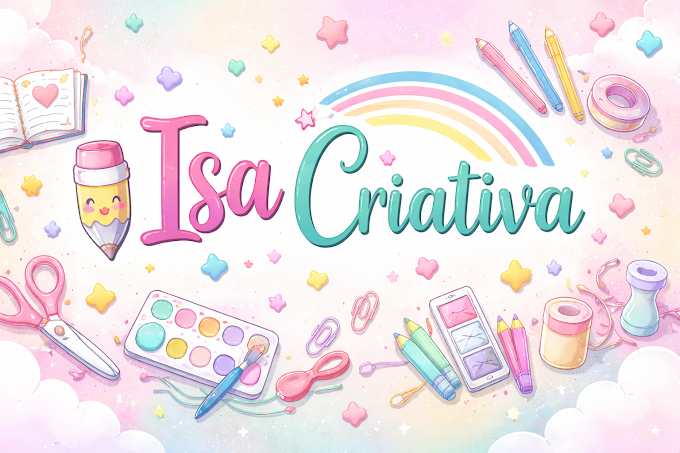
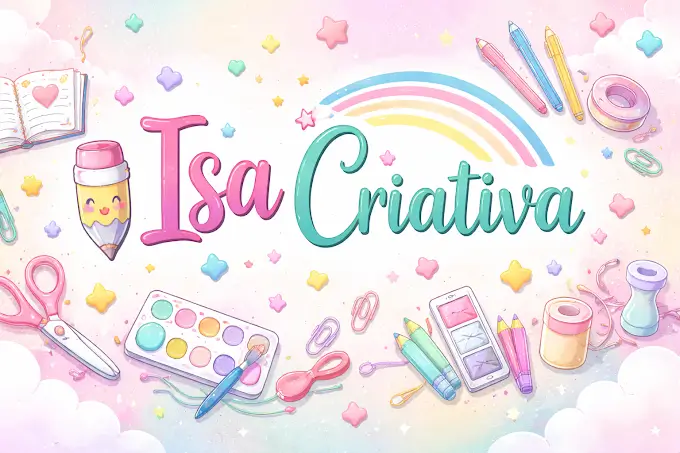
feat(performance): otimiza imagens do site para melhorar carregamento
- Redimensiona imagens conforme recomendações do Google
- Comprime arquivos utilizando TinyPNG
- Converte imagens para formato WebP
- Reduz tamanho total de 5.48MB para 899KB

Impacto:

- Melhoria significativa no tempo de carregamento
- Otimização para SEO e Core Web Vitals

diff --git a/index.html b/index.html
@@ -12,7 +12,7 @@
     <meta property="og:type" content="website">
     <meta property="og:title" content="Isa Criativa | Papelaria Personalizada para Festa Infantil — São Pedro da Aldeia">
     <meta property="og:description" content="Kits festa completos, topos de bolo e caixinhas personalizadas feitas com acabamento premium e muito carinho. Atendemos São Pedro da Aldeia, Região dos Lagos e enviamos para todo o Brasil!">
-    <meta property="og:image" content="https://isacriativa.com.br/img/img01.png">
+    <meta property="og:image" content="https://isacriativa.com.br/img/isa-criativa-papelaria-personalizada-sao-pedro-da-aldeia.webp">
     <meta property="og:image:width" content="1200">
     <meta property="og:image:height" content="630">
     <meta property="og:locale" content="pt_BR">
@@ -131,7 +131,7 @@
             <div class="hero-container">
                 <!-- Ilustração lado esquerdo -->
                 <div class="hero-image" aria-label="Ilustração de personagem criativa voando em foguete com itens de papelaria">
-                    <img src="img/hero-illustration.png" alt="Personagem criativa voando em foguete rodeada de itens de papelaria personalizada" class="hero-illustration" width="600" height="600">
+                    <img src="img/hero-illustration.webp" alt="Personagem criativa voando em foguete rodeada de itens de papelaria personalizada" class="hero-illustration" width="600" height="600">
                 </div>
                 <!-- Texto lado direito -->
                 <div class="hero-text">
@@ -187,70 +187,70 @@
                     <div class="swiper-wrapper">
                         <div class="swiper-slide">
                             <button class="gallery-btn" aria-label="Ampliar imagem 1">
-                                <img src="img/caixinha-personalizada-roda-gigante-tema-confeitaria.png" alt="Caixinha personalizada Roda Gigante para festa infantil com acabamento premium — Isa Criativa - Tema Confeitaria" class="gallery-img" loading="lazy">
+                                <img src="img/caixinha-personalizada-roda-gigante-tema-confeitaria.webp" alt="Caixinha personalizada Roda Gigante para festa infantil com acabamento premium — Isa Criativa - Tema Confeitaria" class="gallery-img" loading="lazy">
                             </button>
                         </div>
                         <div class="swiper-slide">
                             <button class="gallery-btn" aria-label="Ampliar imagem 2">
-                                <img src="img/caixinha-personalizada-piramide-tema-vaquinha.png" alt="Caixinha personalizada Pirâmide para festa infantil com acabamento premium — Isa Criativa - Tema Vaquinha" class="gallery-img" loading="lazy">
+                                <img src="img/caixinha-personalizada-piramide-tema-vaquinha.webp" alt="Caixinha personalizada Pirâmide para festa infantil com acabamento premium — Isa Criativa - Tema Vaquinha" class="gallery-img" loading="lazy">
                             </button>
                         </div>
                         <div class="swiper-slide">
                             <button class="gallery-btn" aria-label="Ampliar imagem 3">
-                                <img src="img/chuteira-personalizada-tema-champions-league.png" alt="Chuteira personalizada para festa infantil com acabamento premium — Isa Criativa - Tema Futebol" class="gallery-img" loading="lazy">
+                                <img src="img/chuteira-personalizada-tema-champions-league.webp" alt="Chuteira personalizada para festa infantil com acabamento premium — Isa Criativa - Tema Futebol" class="gallery-img" loading="lazy">
                             </button>
                         </div>
                         <div class="swiper-slide">
                             <button class="gallery-btn" aria-label="Ampliar imagem 4">
-                                <img src="img/caixinha-personalizada-milk-tema-confeitaria.png" alt="Caixinha personalizada Milk para festa infantil com acabamento premium — Isa Criativa - Tema Confeitaria" class="gallery-img" loading="lazy">
+                                <img src="img/caixinha-personalizada-milk-tema-confeitaria.webp" alt="Caixinha personalizada Milk para festa infantil com acabamento premium — Isa Criativa - Tema Confeitaria" class="gallery-img" loading="lazy">
                             </button>
                         </div>
                         <div class="swiper-slide">
                             <button class="gallery-btn" aria-label="Ampliar imagem 5">
                                 <!-- Substitua pelo caminho da sua foto -->
-                                <img src="img/caixinha-personalizada-globo-tema-disney.png" alt="Caixinha personalizada Globo para festa infantil com acabamento premium — Isa Criativa - Tema Disney" class="gallery-img" loading="lazy">
+                                <img src="img/caixinha-personalizada-globo-tema-disney.webp" alt="Caixinha personalizada Globo para festa infantil com acabamento premium — Isa Criativa - Tema Disney" class="gallery-img" loading="lazy">
                             </button>
                         </div>
                         <div class="swiper-slide">
                             <button class="gallery-btn" aria-label="Ampliar imagem 6">
                                 <!-- Substitua pelo caminho da sua foto -->
-                                <img src="img/caixinha-personalizada-sextavada-tema-confeitaria.png" alt="Caixinha personalizada Sextavada para festa infantil com acabamento premium — Isa Criativa - Tema Confeitaria" class="gallery-img" loading="lazy">
+                                <img src="img/caixinha-personalizada-sextavada-tema-confeitaria.webp" alt="Caixinha personalizada Sextavada para festa infantil com acabamento premium — Isa Criativa - Tema Confeitaria" class="gallery-img" loading="lazy">
                             </button>
                         </div>
                         <div class="swiper-slide">
                             <button class="gallery-btn" aria-label="Ampliar imagem 7">
                                 <!-- Substitua pelo caminho da sua foto -->
-                                <img src="img/caixinha-personalizada-maletinha-tema-turma-do-mickey.png" alt="Caixinha personalizada Maletinha para festa infantil com acabamento premium — Isa Criativa - Tema Turma do Mickey" class="gallery-img" loading="lazy">
+                                <img src="img/caixinha-personalizada-maletinha-tema-turma-do-mickey.webp" alt="Caixinha personalizada Maletinha para festa infantil com acabamento premium — Isa Criativa - Tema Turma do Mickey" class="gallery-img" loading="lazy">
                             </button>
                         </div>
                         <div class="swiper-slide">
                             <button class="gallery-btn" aria-label="Ampliar imagem 8">
                                 <!-- Substitua pelo caminho da sua foto -->
-                                <img src="img/caixinha-personalizada-bala-tema-confeitaria.png" alt="Caixinha personalizada Bala para festa infantil com acabamento premium — Isa Criativa - Tema Confeitaria" class="gallery-img" loading="lazy">
+                                <img src="img/caixinha-personalizada-bala-tema-confeitaria.webp" alt="Caixinha personalizada Bala para festa infantil com acabamento premium — Isa Criativa - Tema Confeitaria" class="gallery-img" loading="lazy">
                             </button>
                         </div>
                         <div class="swiper-slide">
                             <button class="gallery-btn" aria-label="Ampliar imagem 9">
                                 <!-- Substitua pelo caminho da sua foto -->
-                                <img src="img/caixinha-personalizada-milk-tema-champions-league.png" alt="Caixinha personalizada Milk para festa infantil com acabamento premium — Isa Criativa - Tema Champions League" class="gallery-img" loading="lazy">
+                                <img src="img/caixinha-personalizada-milk-tema-champions-league.webp" alt="Caixinha personalizada Milk para festa infantil com acabamento premium — Isa Criativa - Tema Champions League" class="gallery-img" loading="lazy">
                             </button>
                         </div>
                         <div class="swiper-slide">
                             <button class="gallery-btn" aria-label="Ampliar imagem 10">
                                 <!-- Substitua pelo caminho da sua foto -->
-                                <img src="img/caixinha-personalizada-milk-tema-minnie.png" alt="Caixinha personalizada Milk para festa infantil com acabamento premium — Isa Criativa - Tema Minnie" class="gallery-img" loading="lazy">
+                                <img src="img/caixinha-personalizada-milk-tema-minnie.webp" alt="Caixinha personalizada Milk para festa infantil com acabamento premium — Isa Criativa - Tema Minnie" class="gallery-img" loading="lazy">
                             </button>
                         </div>
                         <div class="swiper-slide">
                             <button class="gallery-btn" aria-label="Ampliar imagem 11">
                                 <!-- Substitua pelo caminho da sua foto -->
-                                <img src="img/caixinha-personalizada-jeep-tema-safari.png" alt="Caixinha personalizada Jeep para festa infantil com acabamento premium — Isa Criativa - Tema Safari" class="gallery-img" loading="lazy">
+                                <img src="img/caixinha-personalizada-jeep-tema-safari.webp" alt="Caixinha personalizada Jeep para festa infantil com acabamento premium — Isa Criativa - Tema Safari" class="gallery-img" loading="lazy">
                             </button>
                         </div>
                         <div class="swiper-slide">
                             <button class="gallery-btn" aria-label="Ampliar imagem 12">
                                 <!-- Substitua pelo caminho da sua foto -->
-                                <img src="img/caixinha-personalizada-piramide-tema-minnie.png" alt="Caixinha personalizada Pirâmide para festa infantil com acabamento premium — Isa Criativa - Tema Minnie" class="gallery-img" loading="lazy">
+                                <img src="img/caixinha-personalizada-piramide-tema-minnie.webp" alt="Caixinha personalizada Pirâmide para festa infantil com acabamento premium — Isa Criativa - Tema Minnie" class="gallery-img" loading="lazy">
                             </button>
                         </div>
                     </div>
@@ -264,25 +264,25 @@
                 <div class="gallery-grid" role="list">
                     <div class="gallery-item" role="listitem">
                         <button class="gallery-btn" aria-label="Ampliar imagem: Kit festa completo com papelaria personalizada temática">
-                            <img src="img/caixinha-personalizada-roda-gigante-tema-confeitaria.png" alt="Caixinha personalizada Roda Gigante para festa infantil com acabamento premium — Isa Criativa - Tema Confeitaria" class="gallery-img" loading="lazy">
+                            <img src="img/caixinha-personalizada-roda-gigante-tema-confeitaria.webp" alt="Caixinha personalizada Roda Gigante para festa infantil com acabamento premium — Isa Criativa - Tema Confeitaria" class="gallery-img" loading="lazy">
                             <div class="gallery-overlay" aria-hidden="true"><span>Ampliar</span></div>
                         </button>
                     </div>
                     <div class="gallery-item" role="listitem">
                         <button class="gallery-btn" aria-label="Ampliar imagem: Caixinha Milk personalizada para festa infantil">
-                            <img src="img/caixinha-personalizada-piramide-tema-vaquinha.png" alt="Caixinha personalizada Pirâmide para festa infantil com acabamento premium — Isa Criativa - Tema Vaquinha" class="gallery-img" loading="lazy">
+                            <img src="img/caixinha-personalizada-piramide-tema-vaquinha.webp" alt="Caixinha personalizada Pirâmide para festa infantil com acabamento premium — Isa Criativa - Tema Vaquinha" class="gallery-img" loading="lazy">
                             <div class="gallery-overlay" aria-hidden="true"><span>Ampliar</span></div>
                         </button>
                     </div>
                     <div class="gallery-item" role="listitem">
                         <button class="gallery-btn" aria-label="Ampliar imagem: Caixinha Cone personalizada com acabamento premium">
-                            <img src="img/chuteira-personalizada-tema-champions-league.png" alt="Chuteira personalizada para festa infantil com acabamento premium — Isa Criativa - Tema Futebol" class="gallery-img" loading="lazy">
+                            <img src="img/chuteira-personalizada-tema-champions-league.webp" alt="Chuteira personalizada para festa infantil com acabamento premium — Isa Criativa - Tema Futebol" class="gallery-img" loading="lazy">
                             <div class="gallery-overlay" aria-hidden="true"><span>Ampliar</span></div>
                         </button>
                     </div>
                     <div class="gallery-item" role="listitem">
                         <button class="gallery-btn" aria-label="Ampliar imagem: Caixinhas temáticas personalizadas para lembrança de festa">
-                            <img src="img/caixinha-personalizada-milk-tema-confeitaria.png" alt="Caixinha personalizada Milk para festa infantil com acabamento premium — Isa Criativa - Tema Confeitaria" class="gallery-img" loading="lazy">
+                            <img src="img/caixinha-personalizada-milk-tema-confeitaria.webp" alt="Caixinha personalizada Milk para festa infantil com acabamento premium — Isa Criativa - Tema Confeitaria" class="gallery-img" loading="lazy">
                             <div class="gallery-overlay" aria-hidden="true"><span>Ampliar</span></div>
                         </button>
                     </div>
